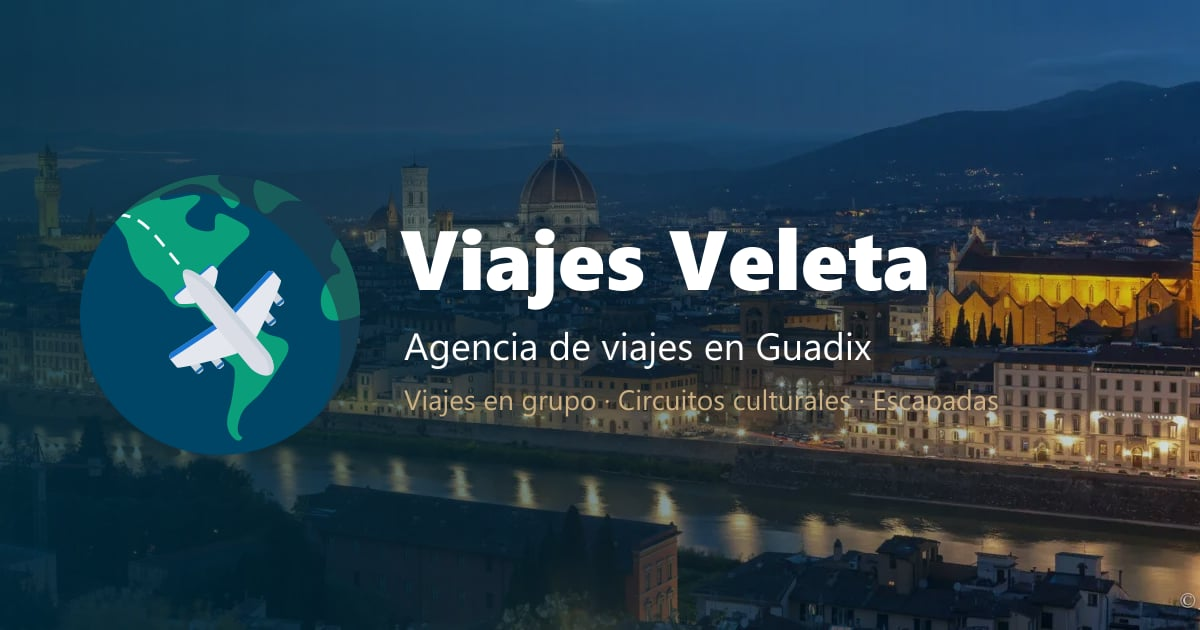
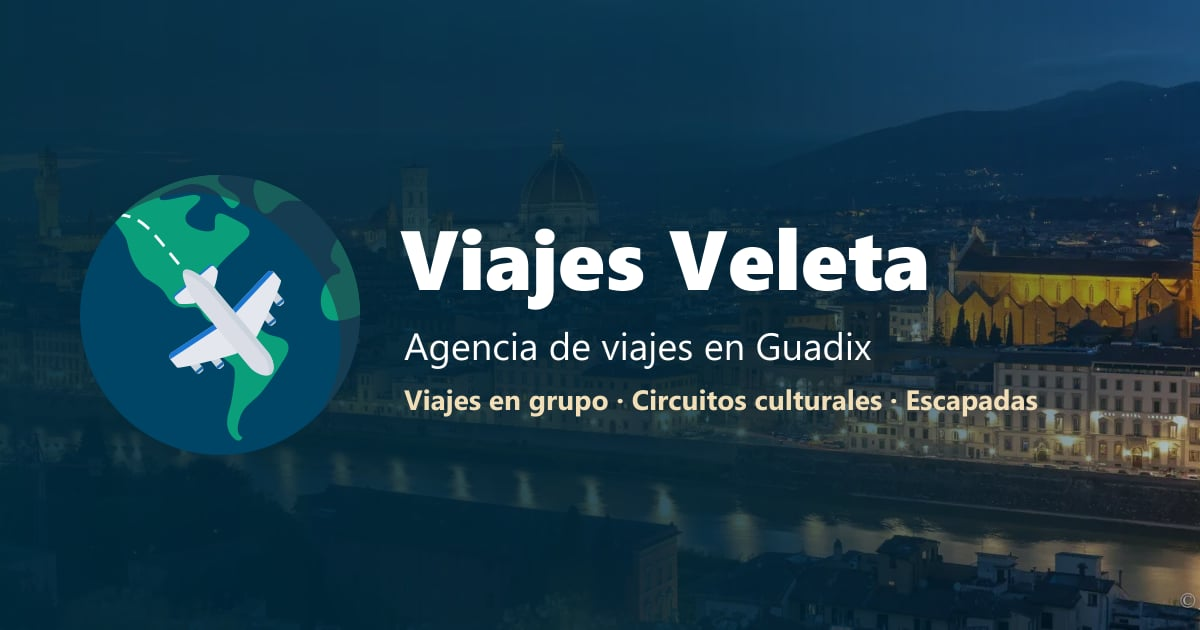
docs: recordatorios de SEO en AGENTS.md y más contraste en la imagen OG
- AGENTS.md: recordatorios al usuario (indexación en Search Console, caché de Facebook, revisión mensual)
- docs/SEO.md: sección de mantenimiento con los pasos y fecha de la última revisión
- og-default.jpg: degradado más oscuro y eslogan en dorado claro y negrita para que se lea

diff --git a/docs/SEO.md b/docs/SEO.md
@@ -33,6 +33,39 @@ Facebook, WhatsApp y LinkedIn guardan en caché la vista previa. Tras cambiar un
 
 ## Configuración fuera del código (Cloudflare / Google)
 
+Ya configurado (octubre 2026):
+
 - Cloudflare → SSL/TLS → Edge Certificates → **Always Use HTTPS** activado.
-- Cloudflare → Rules → Redirect Rules: `www.viajesveleta.es/*` → `https://viajesveleta.es/${1}` con 301.
-- Google Search Console: propiedad de dominio `viajesveleta.es` con el sitemap `https://viajesveleta.es/sitemap-index.xml` enviado.
+- Cloudflare → Rules → Redirect Rules: `www.viajesveleta.es` → `https://viajesveleta.es` + ruta, con 301. El aviso de "DNS not proxied" al crear la regla es una falsa alarma: `www` es un registro de tipo Worker.
+- Google Search Console: propiedad de dominio `viajesveleta.es` (verificada con un registro TXT en Cloudflare que no se debe borrar) y sitemap `https://viajesveleta.es/sitemap-index.xml` enviado.
+
+## Mantenimiento
+
+**Última revisión de Search Console: 2026-10-27**
+
+### Al publicar un viaje o página nueva
+
+1. Entra en https://search.google.com/search-console.
+2. En la barra de arriba ("Inspeccionar URL"), pega la URL **completa** (`https://viajesveleta.es/viajes-en-grupo/...`), pulsa Enter y luego **Solicitar indexación**.
+
+Límite de unas 10 solicitudes al día.
+
+### Al cambiar la imagen, el título o la descripción de una página ya compartida
+
+1. Entra en https://developers.facebook.com/tools/debug/.
+2. Pega la URL, pulsa **Depurar** y después **Volver a extraer**. La vista previa debe mostrar la imagen nueva.
+
+Para varias URLs a la vez, usa https://developers.facebook.com/tools/debug/sharing/batch/ con las URLs **separadas por espacios en una sola línea** (con saltos de línea las toma como una sola). Debe indicar tantas "URL revisadas" como URLs hayas pegado.
+
+WhatsApp usa la misma caché, pero puede tardar uno o dos días en reflejar el cambio.
+
+### Revisión mensual
+
+En Search Console:
+
+- **Rendimiento**: búsquedas por las que aparece la web, impresiones y clics.
+- **Indexación → Páginas**: páginas no indexadas y el motivo. Lo normal es que estén todas las del sitemap.
+- **Mejoras** (p. ej. "Rutas de exploración"): no debe haber errores en rojo.
+- Avisos que Google haya enviado por correo.
+
+Al terminar, actualiza la fecha de "Última revisión" de arriba.

diff --git a/AGENTS.md b/AGENTS.md
@@ -67,6 +67,15 @@ Señales de que se va por mal camino: listeners de `resize`, calcular posiciones
 - Si se cambia el slug de una página publicada, añadir una redirección 301 en `public/_redirects`.
 - No añadir enlaces a páginas en inglés en `translatedPaths` si el idioma no está en `publishedLanguages` (`src/i18n/ui.ts`).
 
+## Recordatorios al usuario
+
+Las tareas de SEO fuera del código (Search Console, caché de Facebook) son manuales y se olvidan. Recuérdalas al terminar la tarea, de forma breve, una sola vez por conversación y sin bloquear el trabajo. Los pasos detallados están en `docs/SEO.md` → "Mantenimiento".
+
+- **Viaje o página nueva publicada**: recordar pedir la indexación de su URL en Search Console.
+- **Cambio de imagen de cabecera, título o descripción de una página ya publicada**: recordar volver a extraerla en el Sharing Debugger de Facebook (también actualiza WhatsApp).
+- **Cambio de slug**: además de la redirección 301 en `public/_redirects`, recordar ambas cosas para la URL nueva.
+- **Revisión mensual**: `docs/SEO.md` guarda la fecha de la última revisión de Search Console. Si han pasado más de 30 días respecto a la fecha actual, recordar al usuario que revise "Rendimiento" y "Páginas". Cuando confirme que lo ha hecho, actualizar esa fecha.
+
 ## Viajes en grupo
 
 ### Estructura
